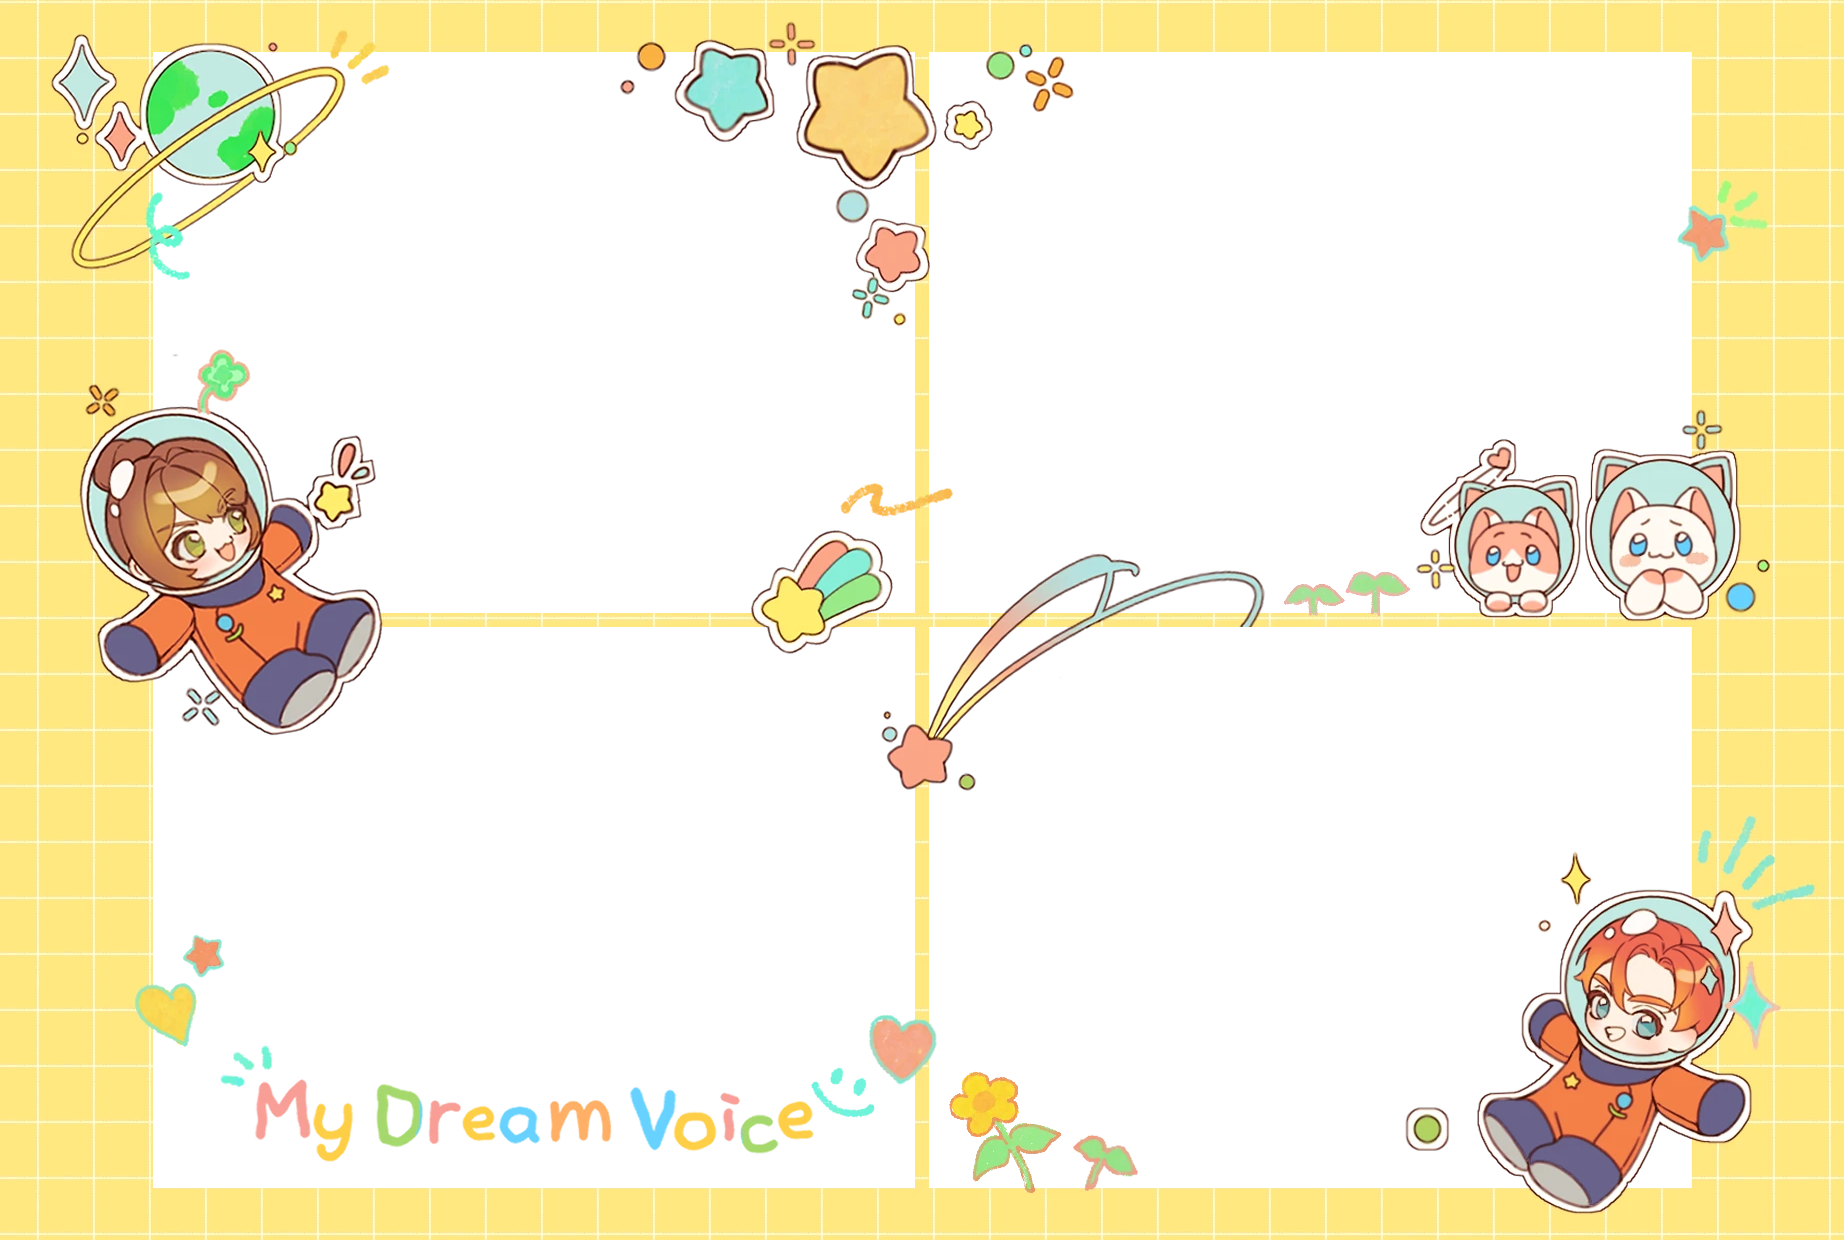
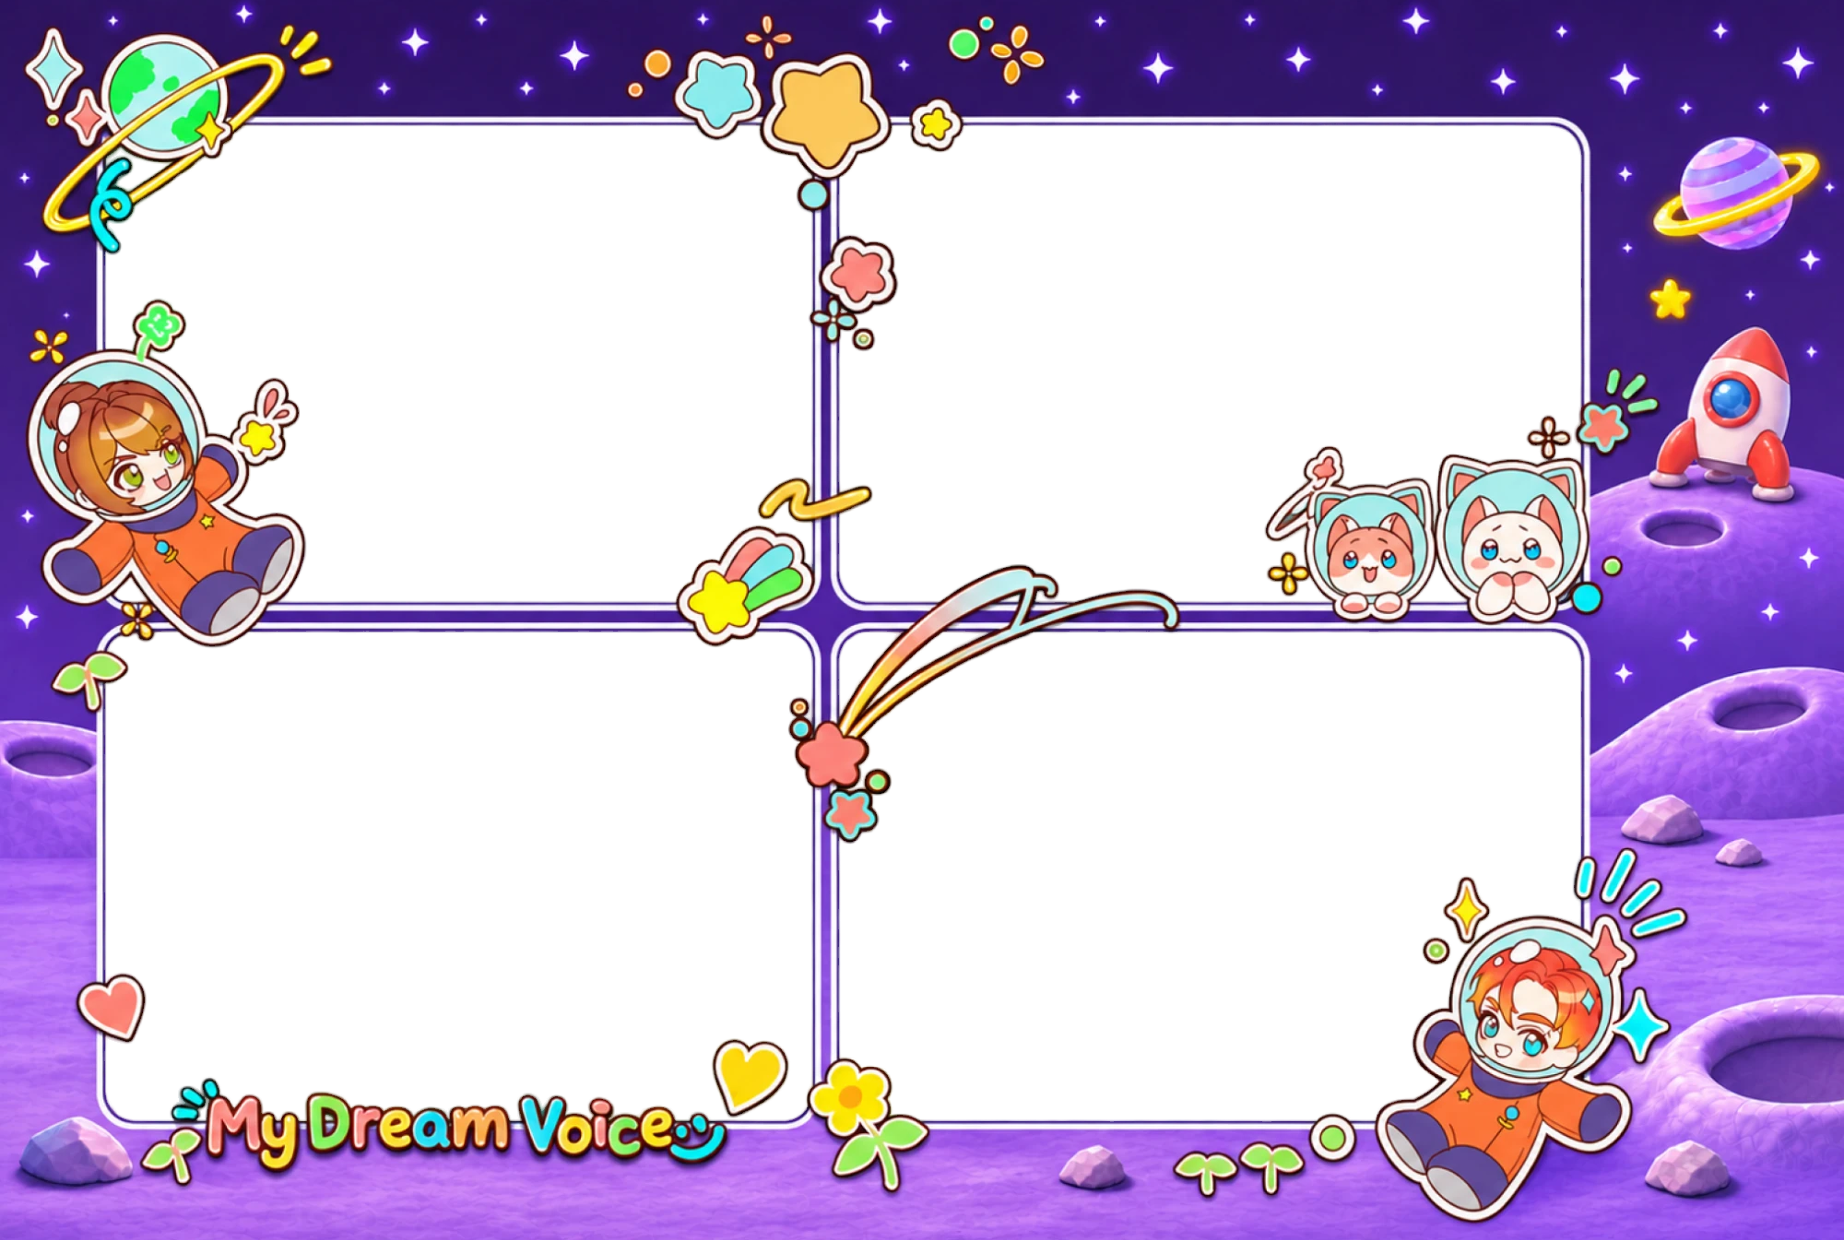
우주비행사 네컷 프레임 — 우주 배경 판(보라 하늘 · 달 표면 · 둥근 칸)으로 교체 · 칸 좌표 다시 잼(왼쪽 714 · 오른쪽 748 폭) · 칸 안 옅은 얼룩 지움 · 노란 격자 틀은 가수 시험용으로 남김

diff --git a/kiosk/src/shared/constants.ts b/kiosk/src/shared/constants.ts
@@ -40,7 +40,8 @@ export interface Rect {
  * QR 자리는 없다 (2026-11-20 — A · B 같은 프레임).
  */
 /**
- * 2026-11-24 새 틀(노란 격자 · 띠 없음)의 사진 칸 — 우주비행사 그림에서 잰 구멍(153,52 · 929,52 · 153,627 · 929,627 · 762~763×561)에 둘레 3px
+ * 2026-11-24 노란 격자 틀(띠 없음)의 사진 칸 — 그 틀 그림에서 잰 구멍(153,52 · 929,52 · 153,627 · 929,627 · 762~763×561)에 둘레 3px.
+ * 지금은 가수 시험 프레임이 쓴다 (우주비행사는 같은 날 우주 배경 프레임으로 다시 바뀜)
  */
 const NEW_FRAME_CELLS: readonly Rect[] = [
   { x: 150, y: 49, width: 768, height: 567 },
@@ -65,11 +66,18 @@ export const FOURCUT = {
   strip: { x: 1562, y: 62, width: 220, height: 1116 } as Rect,
   /**
    * 칸 자리가 다른 프레임 — 직업 id → 칸 4개 (없으면 위 cells).
-   * 우주비행사 (2026-11-24 새 프레임 · 노란 격자 · 띠 없음): 투명 칸 네 개가 762~763×561 —
-   * 그림에서 잰 구멍(153,52 · 929,52 · 153,627 · 929,627)에 둘레 3px을 더했다.
    */
   cellsByJob: {
-    astronaut: NEW_FRAME_CELLS,
+    /**
+     * 우주비행사 — 2026-11-24 우주 배경(보라 하늘 · 달 표면 · 둥근 모서리 칸) 프레임.
+     * 칸이 좌우로 크기가 다르다: 그림에서 잰 구멍(105,125 708×477 · 839,125 742×477 · 105,632 708×489 · 839,632 742×489)에 둘레 3px
+     */
+    astronaut: [
+      { x: 102, y: 122, width: 714, height: 483 },
+      { x: 836, y: 122, width: 748, height: 483 },
+      { x: 102, y: 629, width: 714, height: 495 },
+      { x: 836, y: 629, width: 748, height: 495 },
+    ],
     /** 가수 — 2026-11-24 시험: 우주비행사와 같은 틀에 왼쪽 아래 칸만 구름 모양(구멍 152,630 · 764×553 — 같은 네모 안에 들어간다) */
     singer: NEW_FRAME_CELLS,
   } as Readonly<Record<string, readonly Rect[]>>,

diff --git a/kiosk/src/renderer/public/frames/README.md b/kiosk/src/renderer/public/frames/README.md
@@ -3,7 +3,8 @@
 네컷 인쇄물과 화면 미리보기(P-04 직업 카드 · P-06 촬영 옆 패널)에 얹는 **직업 프레임**을 여기에 넣는다.
 
 > **2026-11-23: 직업별 프레임 6장이 들어 있다** (경찰 보라 · 우주비행사 노랑 · 가수 분홍 · 크리에이터 살구 · 의사 초록 · 로봇개발자 하늘).
-> **2026-11-24: 우주비행사 프레임을 새 그림으로 바꿨다** — 노란 격자 바탕 · 오른쪽 띠 없음 · 사진 칸이 크고 네 칸이 같은 네모(762~763×561). 받은 그림(1844×1244 — 같은 날 두 번째 판)은 칸이 이미 투명이었다 → 위아래 2px 자름 · 오른쪽 위 흰 네모(옛 QR 자리)는 같은 격자 4칸 아래 바탕을 옮겨 덮음. 칸 자리가 나머지 5장과 달라 **`FOURCUT.cellsByJob.astronaut`** 에 따로 적었다.
+> **2026-11-24: 우주비행사 프레임을 새 그림으로 바꿨다** (같은 날 세 번째 판) — 보라 우주 하늘 · 달 표면 · 둥근 모서리 칸 4개(왼쪽 두 칸이 오른쪽보다 좁다). 받은 그림(2000×1349)은 칸이 이미 투명이었다 → 칸 안의 옅은 반투명 얼룩을 지우고(불투명 가장자리 2px 밖의 α<128) · 거의 불투명(α 200~254)은 불투명으로 · 1844×1244로 줄이고 위아래 2px 자름.
+> 같은 날 받은 노란 격자 틀(띠 없음)은 가수 시험 프레임 `singer-test.png`로 쓴다 (왼쪽 아래 칸 구름 모양). 두 프레임 모두 칸 자리가 나머지와 달라 **`FOURCUT.cellsByJob`** 에 직업별로 따로 적었다.
 >
 > 어느 직업이 어느 파일을 쓰는지는 `src/renderer/photo/composeFourCut.ts`의 **`FRAME_FILE`** 한 곳에 있다.
 >
